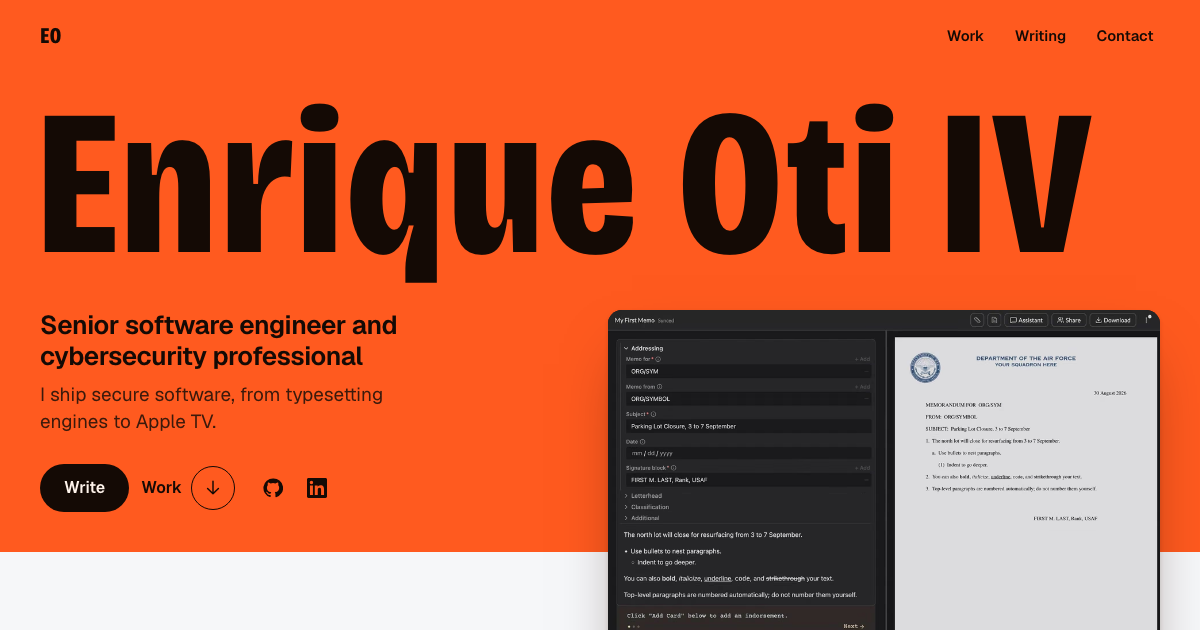
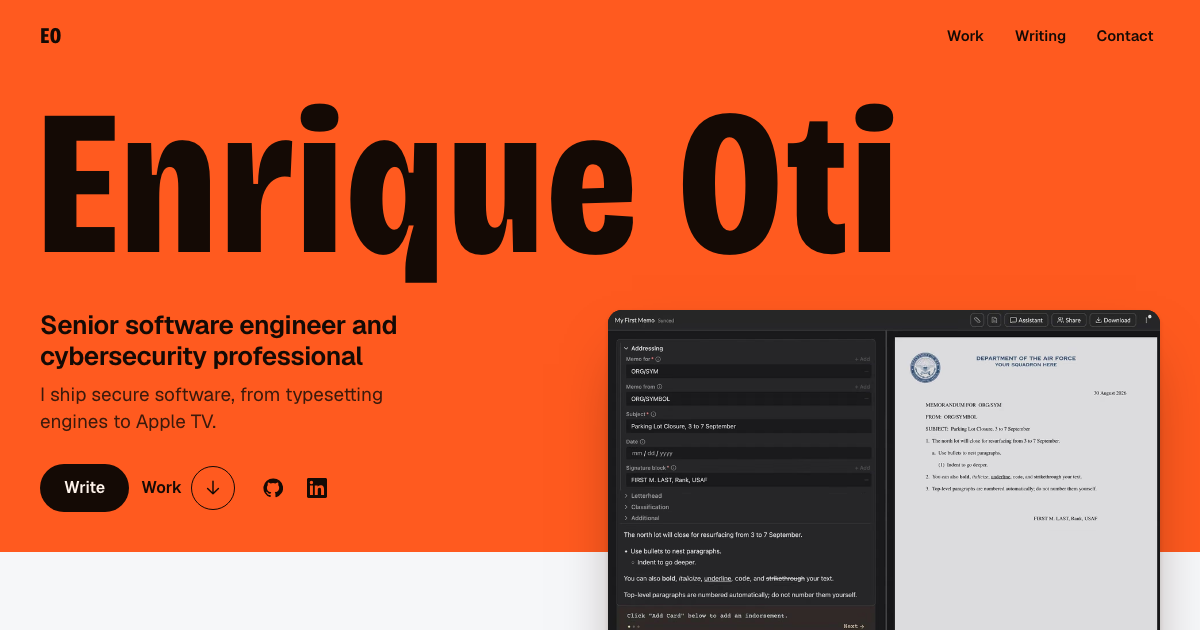
Drop the suffix from the name and the PNGres spec from Writing

Changed region(s): [[0.7708, 0.181, 0.925, 0.4222]]

diff --git a/src/content/site.ts b/src/content/site.ts
@@ -85,10 +85,10 @@ const airmarkLoop = {
 };
 
 export const site = Site.parse({
-  name: 'Enrique Oti IV',
+  name: 'Enrique Oti',
   role: 'Senior software engineer and cybersecurity professional',
   description:
-    'Enrique Oti IV, senior software engineer and cybersecurity professional. Document engines, accredited web apps and native Apple software.',
+    'Enrique Oti, senior software engineer and cybersecurity professional. Document engines, accredited web apps and native Apple software.',
   hero: {
     line: 'I ship secure software, from typesetting engines to Apple TV.',
     loop: airmarkLoop,
@@ -286,13 +286,6 @@ export const site = Site.parse({
   ],
 
   writing: [
-    {
-      date: '2026-04',
-      title: 'PNGres: A Primate-Addressable Persistence Layer',
-      text: '21-page spec, typeset in Typst.',
-      link: { label: 'Read the PDF', href: 'https://github.com/ark-232/pngres/blob/main/docs/tech-specs.pdf' },
-      ledger: ['writing-01', 'writing-02', 'writing-03', 'writing-04'],
-    },
     {
       date: '2026-04',
       title: 'Reforming the Long Blue Line',

diff --git a/tests/site.spec.ts b/tests/site.spec.ts
@@ -47,7 +47,7 @@ test('reads in full with JavaScript off', async ({ browser }) => {
   const context = await browser.newContext({ javaScriptEnabled: false });
   const page = await context.newPage();
   await page.goto('/');
-  await expect(page.getByRole('heading', { level: 1, name: 'Enrique Oti IV' })).toBeVisible();
+  await expect(page.getByRole('heading', { level: 1, name: 'Enrique Oti' })).toBeVisible();
   for (const name of HEADINGS) await expect(page.getByRole('heading', { level: 2, name, exact: true })).toBeVisible();
   await expect(page.getByAltText(/^Airmark memo editor/)).toBeVisible();
   await expect(page.locator('.loop-toggle').first()).toBeHidden();

diff --git a/tests/check-dist.test.ts b/tests/check-dist.test.ts
@@ -28,7 +28,6 @@ const clean = [
   'Airmark · 50,000+ Air Force users',
   'Sites for a council of 47,000+ junior officers.',
   'Sole developer of Penpal, live since August 2026.',
-  'April 2026. 21-page spec, typeset in Typst.',
   'npm i @quillmark/quillify',
   'U.S. Air Force Academy, 2025',
 ];
